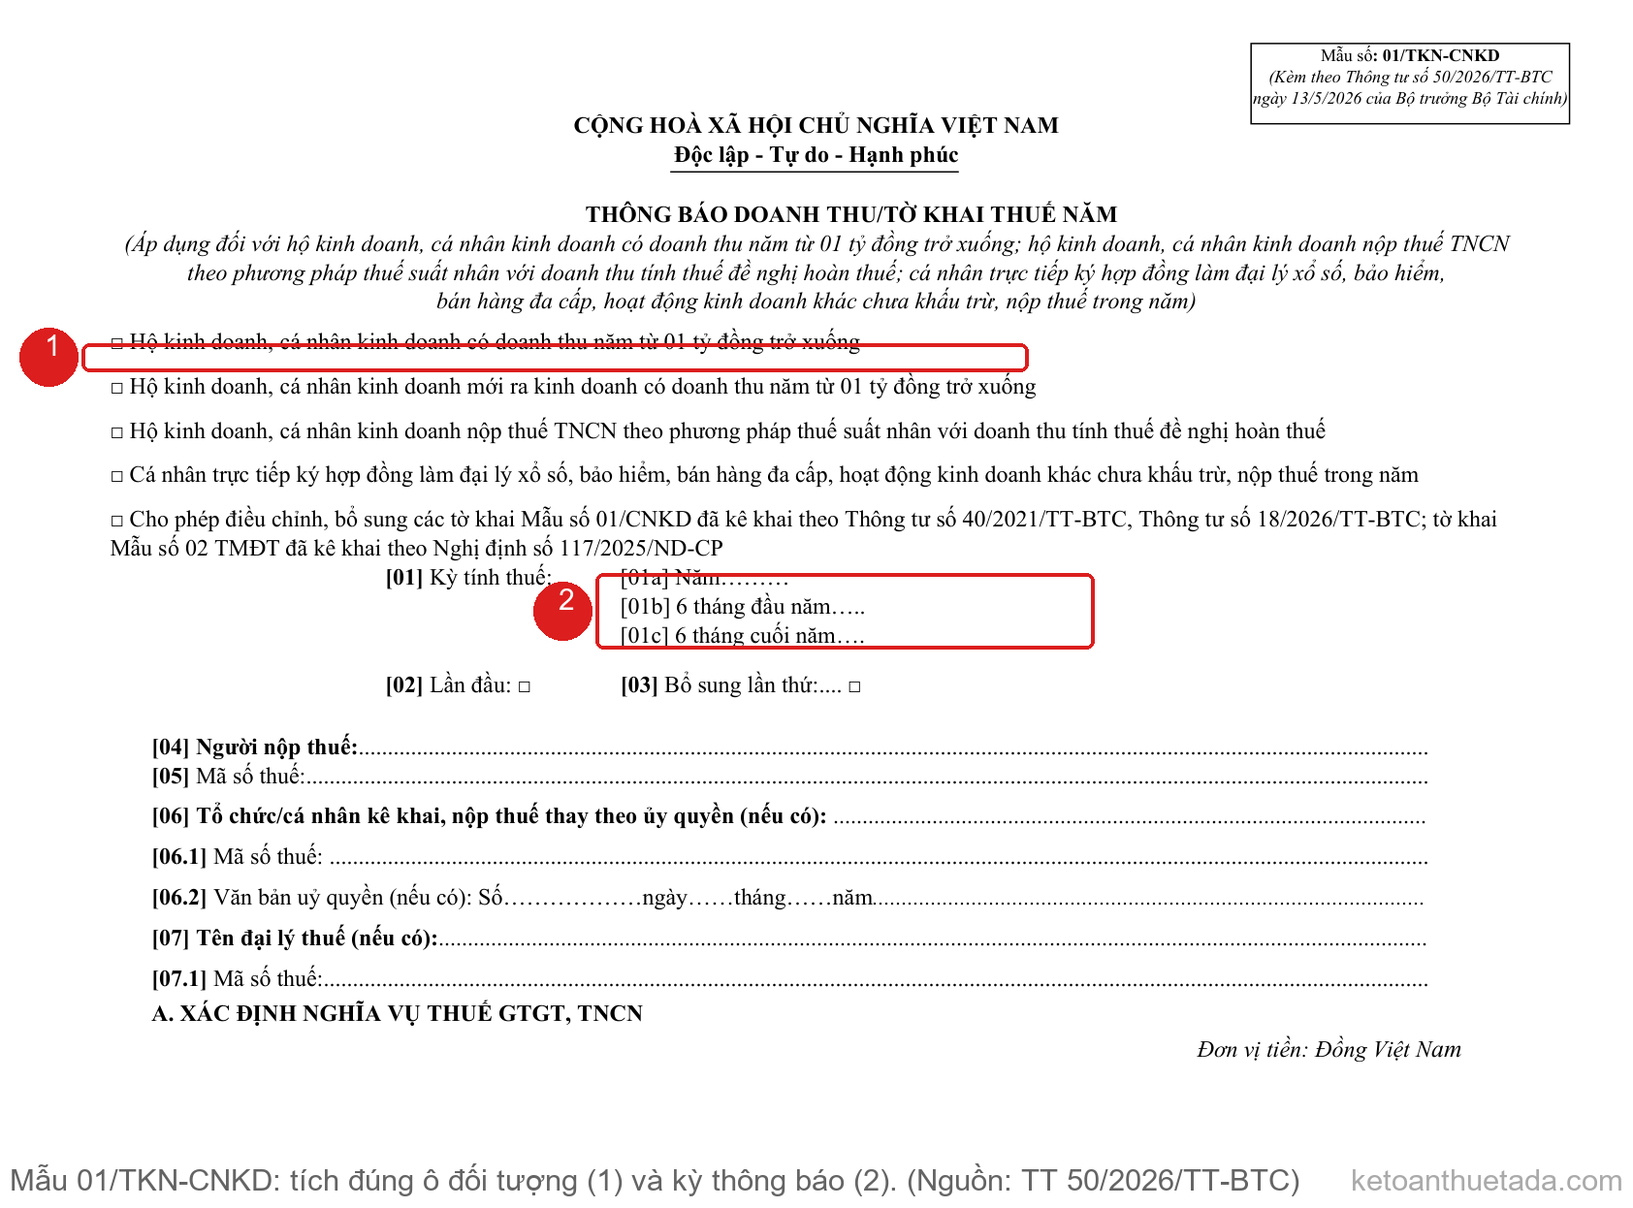
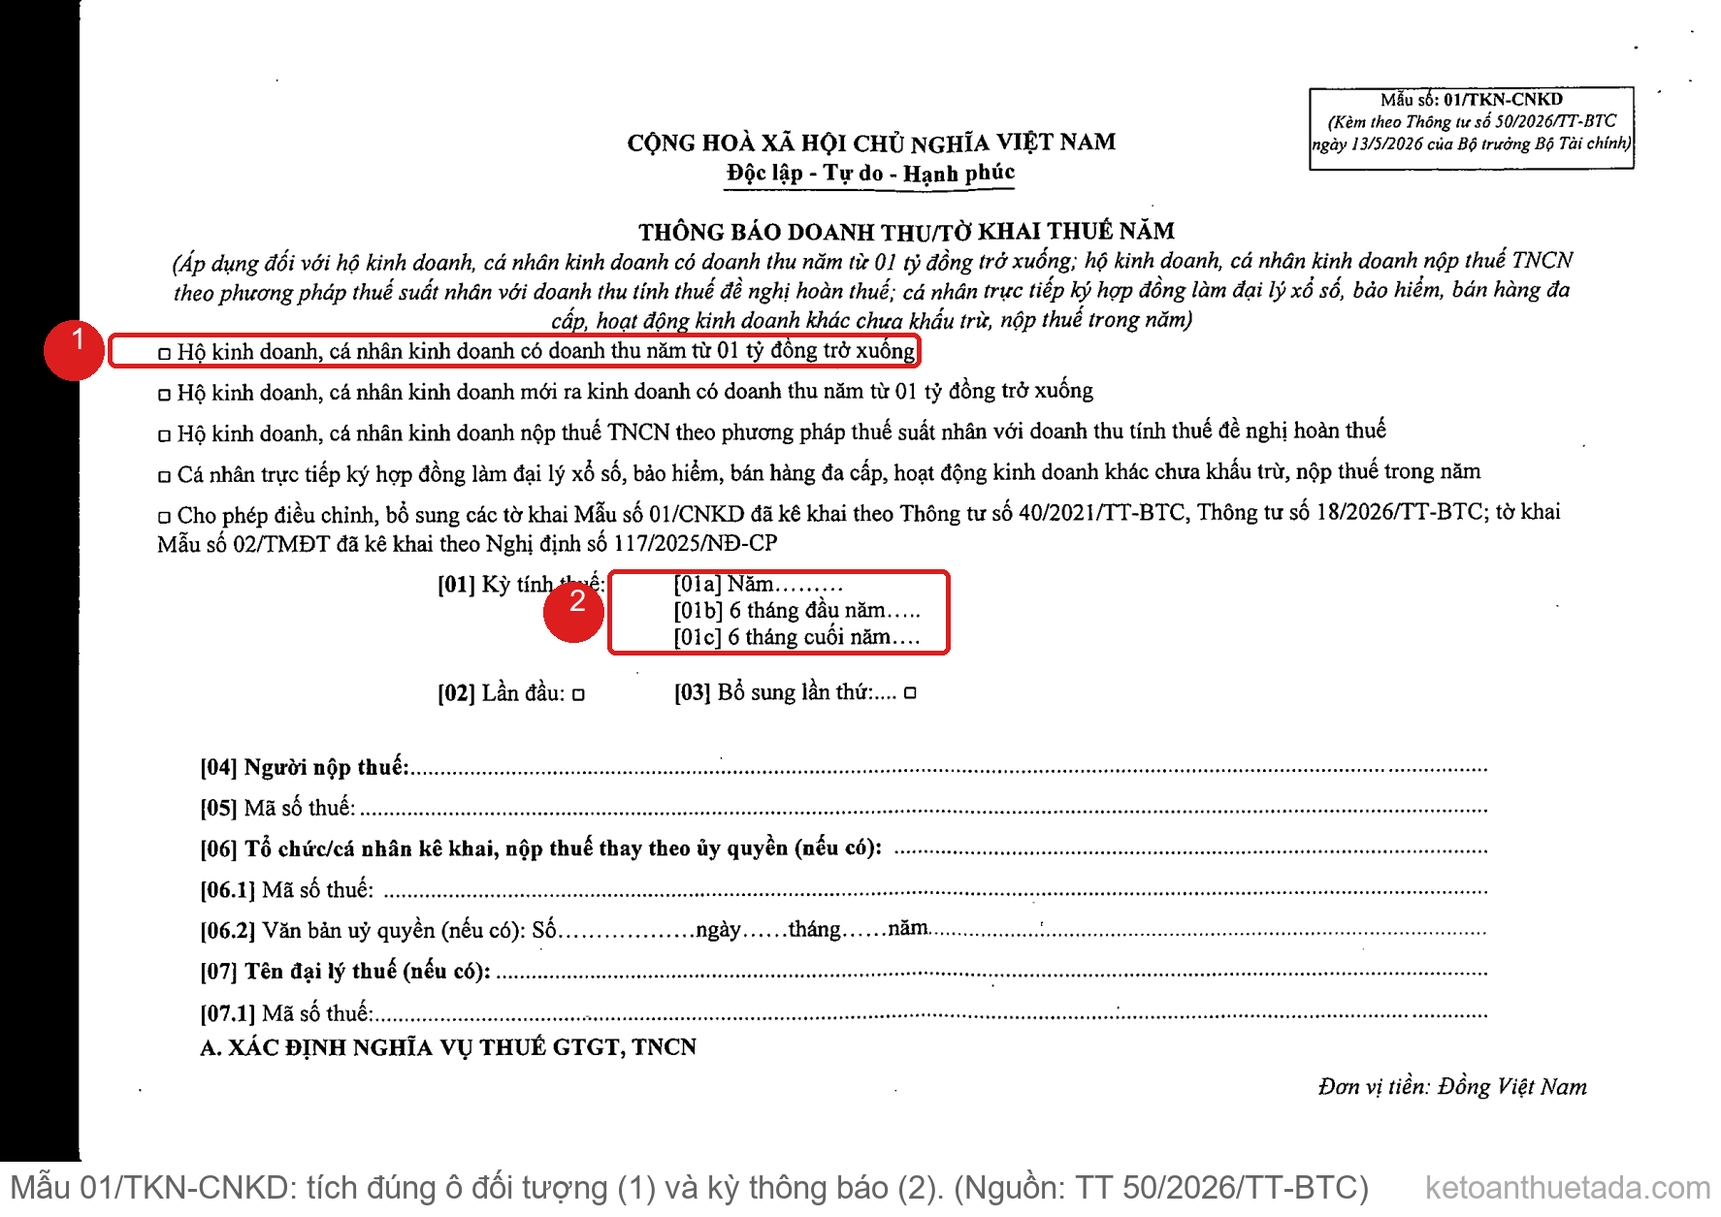
feat(blog): bai ho-kinh-doanh-1-ty-khai-thue-quy-3 + anh bieu mau khoanh lai dung vuong (PDF goc chinh phu) + FB post + quy trinh 3b anh bieu mau

diff --git a/tools/blog-content/cluster1-thue-hkd/ho-kinh-doanh-1-ty-co-phai-khai-thue-quy-3-khong.md b/tools/blog-content/cluster1-thue-hkd/ho-kinh-doanh-1-ty-co-phai-khai-thue-quy-3-khong.md
@@ -1,0 +1,104 @@
+---
+title: "Hộ kinh doanh doanh thu 1 tỷ có phải khai thuế quý 3 không?"
+slug: "ho-kinh-doanh-1-ty-co-phai-khai-thue-quy-3-khong"
+summary: "Hộ doanh thu năm từ 1 tỷ trở xuống không khai thuế theo quý: chỉ nộp Thông báo doanh thu đúng kỳ và hạn riêng. Xem chi tiết cách nộp trên eTax Mobile từng bước"
+published_at: null
+author: "Dịch Vụ Thuế Kế Toán TADA"
+status: "published"
+review_status: "approved"
+tags: ["thue", "ho-kinh-doanh"]
+canonical: "https://ketoanthuetada.com/blog/ho-kinh-doanh-1-ty-co-phai-khai-thue-quy-3-khong"
+---
+
+# Hộ kinh doanh doanh thu 1 tỷ có phải khai thuế quý 3 không?
+
+Sáng thứ Hai 2/11, hàng nghìn hộ kinh doanh chuẩn bị nộp tờ khai quý III/2026 — nhưng trong đó có một nhóm lớn đang chuẩn bị nhầm bài: hộ có doanh thu năm từ 1 tỷ đồng trở xuống. Nhóm này không thuộc diện khai thuế theo quý, không nộp thuế GTGT cũng không nộp thuế TNCN. Việc duy nhất họ làm với cơ quan thuế là Thông báo doanh thu theo Mẫu 01/TKN-CNKD, đúng kỳ và đúng hạn riêng. Nộp nhầm tờ khai quý 3 không phát sinh số tiền thuế, nhưng tốn công và dễ chọn sai mẫu.
+
+## Tại sao hộ doanh thu từ 1 tỷ trở xuống không khai thuế theo quý?
+
+Năm 2026 lấy doanh thu làm ranh giới, không phải tháng nộp, không phải hình thức hộ đăng ký. Theo Nghị định 68/2026/NĐ-CP (Điều 3 khoản 1 về thuế GTGT, Điều 4 khoản 1 về thuế TNCN), doanh thu năm 501 triệu được nâng thành **1 tỷ đồng** bởi Nghị định 141/2026/NĐ-CP (Điều 1 khoản 1): hộ kinh doanh có doanh thu năm từ 1 tỷ trở xuống được **không chịu và không phải kê khai, nộp hai loại thuế này**.
+
+Vai trò của Thông báo doanh thu vì thế là **kê khai để theo dõi doanh thu**, chứ không phải kê khai số thuế phải nộp. Mẫu dùng là 01/TKN-CNKD (Thông tư 18/2026/TT-BTC, Điều 4 khoản 1 điểm a).
+
+Đó cũng là điều livestream Cục Thuế ngày 29/10/2026 nhắc rõ: trên eTax Mobile, hộ nhỏ chọn đối tượng "Hộ, cá nhân kinh doanh" → "Chính thức" → trong mục Khai thuế, chọn **Thông báo doanh thu (doanh thu năm từ 1 tỷ trở xuống)** — không chọn tờ khai GTGT/TNCN theo kỳ.
+
+Hạn 2/11/2026 là hạn của nhóm khai thuế theo quý — không phải của hộ nhỏ; lịch hạn của hộ nhỏ xem bảng dưới.
+
+## Kỳ và hạn thông báo doanh thu cho hộ ≤1 tỷ là mốc nào?
+
+Nghị định 68/2026 tách 3 trường hợp, hạn hoàn toàn khác hạn dời của tờ khai quý:
+
+| Nhóm hộ | Kỳ thông báo | Hạn cuối | Căn cứ |
+|---|---|---|---|
+| Hộ đã hoạt động từ năm trước | Doanh thu cả năm | 31/01/2027 | NĐ 68/2026 Điều 8 khoản 1 điểm a |
+| Hộ mới bắt đầu trong 6 tháng đầu năm | Từ ngày bắt đầu đến hết 30/6 | 31/7/2026 | NĐ 68/2026 Điều 9 khoản 1 |
+| Hộ mới bắt đầu trong 6 tháng cuối năm | Từ ngày bắt đầu đến hết năm | 31/01/2027 | NĐ 68/2026 Điều 9 khoản 1 |
+
+Áp vào năm kinh doanh 2026: hộ đang hoạt động ổn định thông báo doanh thu muộn nhất 31/01/2027. Ngày này rơi vào Chủ nhật, nên theo khoản 5 Điều 148 Bộ luật Dân sự 2015, thời hạn dời sang ngày làm việc kế tiếp là 1/2/2027 (thứ hai) — mốc đã nằm trong lịch thuế tháng 11-12. Hộ mới mở cửa hàng cuối 2026 (ví dụ mở từ 20/10) cũng chỉ nộp một lần, trước 31/01/2027.
+
+<figure class="blog-figure">
+<img src="/static/img/blog/mau-01-tkn-cnkd.png" alt="Mau 01 TKN CNKD thong bao doanh thu ho kinh doanh" loading="lazy" />
+<figcaption>Mẫu 01/TKN-CNKD: tích đúng ô đối tượng (1) — doanh thu năm từ 01 tỷ trở xuống — và tổ hợp kỳ thông báo (2). Biểu kèm Thông tư 50/2026/TT-BTC.</figcaption>
+</figure>
+
+Điểm thứ hai hay bị nhầm ngược lại: khi doanh thu cộng dồn trong năm **vượt 1 tỷ đồng**, hộ **chuyển sang kê khai thuế theo quý kể từ quý vượt mốc** (NĐ 68/2026 Điều 9 khoản 2, Điều 8 khoản 3 điểm a). Hạn nộp hồ sơ quý là ngày cuối cùng của tháng đầu tiên của quý sau. Hộ nào vượt mốc trong quý III thì hạn là 2/11/2026. Nói cách khác, 2/11 là hạn của hộ vừa nhảy ngưỡng, không phải của hộ nhỏ.
+
+## Nộp Thông báo doanh thu trên eTax Mobile như thế nào?
+
+Theo hướng dẫn livestream Cục Thuế ngày 29/10/2026 và hướng dẫn chi tiết trên Cổng dịch vụ công ngành thuế, trình tự như sau:
+
+1. **Đăng nhập eTax Mobile**, chọn đối tượng "Hộ, cá nhân kinh doanh", chọn "Chính thức" để vào phân hệ.
+2. Vào mục Khai thuế, chọn **Thông báo doanh thu**. Hệ thống hiện đúng bộ hồ sơ hộ doanh thu từ 1 tỷ trở xuống, không phải tờ khai GTGT/TNCN theo quý.
+3. **Chọn kỳ và đối tượng kê khai:** người nộp thuế tự kê khai; loại kỳ chọn theo bảng trên — kỳ 6 tháng (hộ mới) hoặc kỳ cả năm (hộ ổn định); chọn đúng cơ quan thuế quản lý trực tiếp.
+4. **Tích loại hoạt động kinh doanh** phát sinh trong kỳ (hộ ghép nhiều ngành thì tích nhiều ngành). Nhập doanh thu từng ngành: chỉ kê doanh thu, không có cột số thuế GTGT, TNCN phải nộp.
+5. Có hoạt động thuộc thuế TTĐB, tài nguyên hoặc phí bảo vệ môi trường thì kê thêm; không có thì bỏ qua.
+6. **Kiểm tra lại toàn bộ**, nhập mã OTP xác thực để nộp, lưu ngay biên nhận nộp thành công.
+
+Điểm dễ gãy nhất nằm ở **phiên bản mẫu**: kỳ tính thuế bắt đầu từ 01/7/2026 trở đi (ví dụ kỳ 6 tháng cuối năm) dùng mẫu 01/TKN-CNKD tại Phụ lục I Thông tư 89/2026/TT-BTC (Điều 99 khoản 5), thay mẫu cùng số hiệu kèm Thông tư 50/2026/TT-BTC; kỳ trước 01/7/2026 dùng mẫu theo TT 50/2026. Ứng dụng gán mẫu theo kỳ, nhưng nộp giấy hoặc tải biểu mẫu từ nguồn ngoài phải kiểm tra phiên bản trước khi gửi.
+
+Lần thông báo đầu tiên của hộ mới bắt đầu kinh doanh gửi kèm **thông báo số tài khoản hoặc số hiệu ví điện tử** theo mẫu 01/BK-STK (Thông tư 18/2026, Điều 4 khoản 1 điểm d) — thiếu giấy này hồ sơ bị trả về làm lại.
+
+## Bẫy nào dễ gặp nhất khi hộ kinh doanh nhỏ kê khai?
+
+Có ba bẫy lặp lại nhiều trong các buổi đối thoại giữa hộ và cơ quan thuế:
+
+- **Chuyển quá sớm hoặc quá muộn khi doanh thu vượt 1 tỷ.** Quy tắc là theo quý \_\_phát sinh\_\_ vượt mốc: doanh thu cộng dồn mới vượt 1 tỷ kể từ quý III nghĩa là hộ chỉ khai theo quý từ quý III; các quý trước đó vẫn thuộc diện thông báo doanh thu, không bị truy lùi.
+- **Đăng ký hóa đơn điện tử trễ khi vượt mốc giữa năm.** Doanh thu lũy kế vượt 1 tỷ thì hộ có **30 ngày** để đăng ký hóa đơn điện tử (NĐ 141/2026, Điều 1 khoản 2 điểm c) — chọn hình thức có mã cơ quan thuế hoặc không có mã theo Nghị định 254/2026/NĐ-CP. Đếm mốc từ ngày phát sinh vượt, đừng đợi sang năm.
+- **Dùng mẫu sai phiên bản theo kỳ** như mục trên, hoặc **quên thông báo số tài khoản** khi lần đầu nộp hồ sơ. Thiếu là bị trả về, mất thêm một vòng 3-5 ngày làm việc.
+
+Bên cạnh đó, hộ nhỏ vẫn cần **sổ tối thiểu**: sổ doanh thu bán hàng hóa, dịch vụ mẫu S1a-HKD theo Điều 4 khoản 1 Thông tư 152/2025/TT-BTC, dành cho nhóm "không chịu GTGT, không phải nộp TNCN". Ghi doanh thu theo ngày để tự biết hộ còn cách ngưỡng bao xa — vượt mốc là phải chuyển ngay, không ai nhắc trước.
+
+Một điểm đáng nắm cuối: hộ đã lỡ kê khai, nộp thuế GTGT/TNCN theo Nghị định 68/2026 trong khi doanh thu năm thực tế từ 1 tỷ trở xuống thì số thuế đã nộp được **xử lý theo Điều 12 Nghị định 68/2026** (NĐ 141/2026 Điều 4 khoản 1) — giữ các tờ khai đã nộp để đối chiếu.
+
+## Câu hỏi thường gặp
+
+**Câu 1: Hạn 2/11/2026 áp dụng cho hộ nào?**
+
+Chỉ áp dụng hộ kinh doanh, cá nhân kinh doanh khai thuế theo quý — nhóm doanh thu năm trên 1 tỷ (nộp GTGT+TNCN); hạn gốc 31/10 rơi thứ Bảy nên dời thành 2/11. Hộ doanh thu năm từ 1 tỷ trở xuống không khai theo quý; mốc gần nhất là 31/01/2027, dời thành 1/2/2027 cho thông báo doanh thu cả năm.
+
+**Câu 2: Hộ doanh thu dưới 1 tỷ nộp gì cho kỳ quý III/2026?**
+
+Không có tờ khai quý nào phải nộp. Chỉ hai tình huống đáng chú ý: hộ ổn định chờ thông báo doanh thu cả năm trước 31/01/2027; hộ mới ra kinh doanh trong 6 tháng đầu năm mà lỡ hạn 31/7/2026 thì nộp sớm và trao đổi với cơ quan thuế để giảm nhẹ chậm nộp.
+
+**Câu 3: Trên eTax Mobile chọn mục nào để nộp Thông báo doanh thu?**
+
+Chọn "Hộ, cá nhân kinh doanh → Chính thức → Khai thuế → Thông báo doanh thu" đúng như livestream Cục Thuế ngày 29/10/2026 hướng dẫn, không chọn Tờ khai GTGT/TNCN theo quý. Hộ nộp lần đầu chuẩn bị sẵn số tài khoản hoặc ví điện tử để kê kèm 01/BK-STK.
+
+**Câu 4: Nếu doanh thu năm vượt 1 tỷ giữa năm thì sao?**
+
+Hộ chuyển sang kê khai thuế theo quý kể từ quý vượt mốc, hạn mỗi quý là ngày cuối cùng của tháng đầu quý sau (Điều 9 khoản 2 Nghị định 68/2026). Đồng thời trong **30 ngày** từ lúc vượt mốc phải đăng ký hóa đơn điện tử theo NĐ 141/2026. Chậm chuyển có thể bị xử phạt theo Nghị định 125/2020/NĐ-CP.
+
+## Xem thêm
+
+- [Khai thuế quý 3 dời hạn 2/11: nộp sớm hay đợi](https://ketoanthuetada.com/blog/khai-thue-quy-3-doi-han-2-11-nop-som-hay-doi) — chi tiết hạn dời cho nhóm khai theo quý.
+- [Hộ kinh doanh dưới 500 triệu có phải nộp thuế không](https://ketoanthuetada.com/blog/1-ho-kinh-doanh-duoi-500-trieu-co-phai-nop-thue-khong) — ngưỡng miễn trước khi NĐ 141/2026 nâng lên.
+- [Cách tính thuế TNCN hộ kinh doanh 2026 — 4 nhóm doanh thu](https://ketoanthuetada.com/blog/3-cach-tinh-thue-tncn-hkd-2026-4-nhom-doanh-thu) — tỷ lệ % trên doanh thu từng nhóm.
+- [BHXH bắt buộc chủ hộ 2026: mức đóng 29,5%, ai phải nộp](https://ketoanthuetada.com/blog/bhxh-bat-buoc-chu-ho-2026) — đối tượng và 2 mốc 01/01/2026 và 01/07/2029.
+- [Lịch nộp thuế hộ kinh doanh 2026 — thời hạn cụ thể](https://ketoanthuetada.com/blog/5-lich-nop-thue-hkd-2026-thoi-han-cu-the) — bảng mốc theo tháng từng kỳ.
+- [Lịch thuế tháng 11–12/2026: 6 mốc cuối năm](https://ketoanthuetada.com/blog/lich-thue-thang-11-12-2026-moc-nao-duoc-lui-tien) — mốc 1/2/2027 dời hạn thông báo doanh thu.
+
+> **Căn cứ pháp lý:** [Nghị định 68/2026/NĐ-CP](https://www.google.com/search?q=ngh+d+68+2026+nd-cp+ho+kinh+doanh); [Nghị định 141/2026/NĐ-CP](https://www.google.com/search?q=ngh+d+141+2026+nd-cp+ho+kinh+doanh); [Thông tư 18/2026/TT-BTC](https://www.google.com/search?q=thong+tu+18+2026+tt-btc+ho+kinh+doanh); [Thông tư 89/2026/TT-BTC](https://www.google.com/search?q=thong+tu+89+2026+tt-btc+mau+01tkn+cnkd); [Thông tư 152/2025/TT-BTC](https://www.google.com/search?q=thong+tu+152+2025+tt-btc+ho+kinh+doanh)
+
+---
+*Bài viết được thực hiện bởi Đội ngũ Chuyên gia Thuế TADA.*
+*Cập nhật: 10/2026 | Nguồn thời sự: livestream Cục Thuế 29/10/2026 về eTax Mobile. Văn bản pháp lý xem mục Căn cứ pháp lý phía trên.*

diff --git a/tools/blog-content/social-posts/ho-kinh-doanh-1-ty-co-phai-khai-thue-quy-3-khong-fb.md b/tools/blog-content/social-posts/ho-kinh-doanh-1-ty-co-phai-khai-thue-quy-3-khong-fb.md
@@ -1,0 +1,25 @@
+Sáng thứ Hai 2/11, rất nhiều chủ hộ kinh doanh chuẩn bị ngồi vào nộp tờ khai quý III/2026. Nhưng giữa nhóm đó có một bộ phận đang làm một việc không cần thiết: hộ có doanh thu năm từ một tỷ đồng trở xuống. Nhóm này theo quy định mới 2026 không phải khai thuế theo quý, không nộp thuế GTGT, cũng không nộp thuế TNCN. Việc duy nhất họ cần làm với cơ quan thuế cả năm chỉ là nộp một tờ khai ngắn gọn đúng tên gọi: Thông báo doanh thu theo Mẫu 01/TKN-CNKD.
+
+Vì sao lại như vậy? Từ ngày 01/01/2026, cách tính thuế cho hộ kinh doanh đổi sang lấy doanh thu làm ranh giới. Nghị định 68/2026/NĐ-CP đăng ký nguyên tắc, rồi Nghị định 141/2026/NĐ-CP nâng ngưỡng miễn lên một tỷ đồng một năm. Tức là nếu cả năm bạn bán được từ một tỷ trở xuống, bạn thuộc nhóm không chịu thuế GTGT và TNCN. Không có thuế phải nộp thì không có tờ khai quý để nộp. Cơ quan thuế chỉ muốn biết một thứ: doanh thu của bạn là bao nhiêu. Tờ đó chính là Thông báo doanh thu.
+
+Điều này vừa được Cục Thuế nói rõ trong livestream hướng dẫn ngày 29/10/2026 về eTax Mobile. Trên ứng dụng, hộ nhỏ chọn mục "Hộ, cá nhân kinh doanh", chọn "Chính thức", vào Khai thuế và chọn "Thông báo doanh thu — doanh thu năm từ 1 tỷ trở xuống". Không chọn tờ khai GTGT hay TNCN theo quý. Màn hình sẽ hiện đúng bộ hồ sơ cho nhóm của bạn, chỉ có cột doanh thu, không có cột số thuế phải nộp.
+
+Vậy hạn là ngày nào? Đấy là chỗ nhiều người nhầm nhất. Nghị định 68/2026 tách ba trường hợp. Một, hộ đã hoạt động từ năm trước: thông báo doanh thu cả năm, chậm nhất 31/01/2027. Ngày này rơi vào Chủ nhật nên dời sang 1/2/2027 theo luật về thời hạn. Hai, hộ mới bắt đầu kinh doanh trong sáu tháng đầu năm: nộp trước 31/7 cùng năm. Ba, hộ mới bắt đầu trong sáu tháng cuối năm: nộp trước 31/01/2027. Không mốc nào rơi vào ngày 2/11/2026.
+
+Ngày 2/11 là hạn của ai? Của nhóm doanh thu trên một tỷ — những hộ đã vượt ngưỡng và phải khai theo quý. Hạn gốc 31/10 rơi vào thứ Bảy nên được dời sang thứ Hai 2/11. Nói cách khác, nếu dạo này bạn thấy khắp nơi đồn hạn quý 3 là 2/11, đó là tin của nhóm trên một tỷ, không phải tin của hộ nhỏ. Nhưng có một tình huống là điểm giao giữa hai nhóm: nếu doanh thu cộng dồn của bạn vượt một tỷ ngay trong quý III, kể từ quý đó bạn chuyển sang khai theo quý, và hạn của quý III chính là 2/11. Đồng thời trong vòng ba mươi ngày từ lúc vượt ngưỡng, bạn phải đăng ký sử dụng hóa đơn điện tử theo Nghị định 141/2026. Vượt mốc mà chờ sang đầu năm mới làm là mất thời gian vô ích.
+
+Trình tự nộp trên eTax Mobile tóm gọn gồm sáu bước: đăng nhập, chọn đối tượng hộ kinh doanh chính thức, vào mục Khai thuế, chọn Thông báo doanh thu, chọn kỳ và tích đúng ngành nghề kinh doanh của kỳ đó, nhập doanh thu từng ngành rồi lấy mã OTP để nộp. Nếu hộ mới bắt đầu và lần đầu nộp, nhớ chuẩn bị sẵn số tài khoản ngân hàng hoặc số hiệu ví điện tử để gửi kèm theo mẫu 01/BK-STK. Thiếu thông tin tài khoản là hồ sơ bị trả về, mất thêm một vòng ba đến năm ngày làm việc.
+
+Một chi tiết mẫu biểu dễ gãy: kỳ tính thuế bắt đầu từ 01/7/2026 trở đi phải dùng mẫu 01/TKN-CNKD ban hành theo Thông tư 89/2026/TT-BTC, còn kỳ trước đó dùng mẫu theo Thông tư 50/2026/TT-BTC. Ứng dụng tự gán đúng mẫu khi bạn chọn kỳ, nhưng nếu bạn nộp giấy hoặc tải biểu mẫu từ nguồn ngoài, kiểm tra kỹ phiên bản trước khi gửi.
+
+Ngoài ra, dù được miễn hai loại thuế chính, hộ nhỏ vẫn cần ghi sổ doanh thu theo mẫu S1a-HKD. Sổ này không làm cho cơ quan thuế xem đẹp mắt, nó giúp chính bạn biết mỗi ngày hộ còn cách ngưỡng một tỷ bao xa. Đến lúc tổng doanh thu cộng dồn chạm ngưỡng, bạn phải chuyển chế độ ngay trong quý, không ai nhắc trước cho bạn cả. Còn nếu lỡ tay đã kê khai và nộp thuế GTGT, TNCN trong khi doanh thu cả năm thực tế dưới một tỷ, đừng lo trắng: số thuế đã nộp được xử lý trả lại theo Điều 12 Nghị định 68/2026, miễn là bạn giữ nguyên hồ sơ đã nộp để đối chiếu.
+
+Vậy tóm lại: hộ dưới một tỷ không phải nộp gì vào ngày 2/11, nhưng giới hạn một tỷ không phải đường vô hình — vượt qua là nghĩa vụ đổi ngay lập tức. Hộ của bạn hiện đang ở bên nào của vạch một tỷ, và bạn đã có sổ theo dõi doanh thu hằng ngày để biết điều đó chưa?
+
+👉 Đọc chi tiết kỳ hạn, bẫy mẫu biểu và từng bước trên eTax Mobile tại: https://ketoanthuetada.com/blog/ho-kinh-doanh-1-ty-co-phai-khai-thue-quy-3-khong
+
+#thue #hokinhdoanh #etaxmobile #thuequy3 #thongbaodoanhthu
+
+---COMMENT---
+
+(Bình luận đầu tiên) Văn bản căn cứ trong bài: Nghị định 68/2026/NĐ-CP (Điều 3, 4, 8, 9, 12), Nghị định 141/2026/NĐ-CP (Điều 1), Thông tư 18/2026/TT-BTC (Điều 4), Thông tư 89/2026/TT-BTC (Phụ lục I), Thông tư 152/2025/TT-BTC (sổ S1a-HKD). Bạn nào đang lưỡng lự nhóm của mình thì nhập doanh thu năm ước tính vào đây, mình xem giúp.

diff --git a/tools/blog-content/_CHUAN-BAI-BLOG-TADA.md b/tools/blog-content/_CHUAN-BAI-BLOG-TADA.md
@@ -32,6 +32,11 @@ Kiểm tra tự động trước khi publish: `python tools/check-post-format.py
 ## 3. Link nội bộ
 - ≥ 2 trong thân bài + `## Xem thêm`= 5 mục trong DB (verified bằng REST trước khi patch). Slug tuyệt đối `https://ketoanthuetada.com/blog/<slug>`.
 
+## 3b. Ảnh biểu mẫu (bắt buộc khi bài nói về biểu mẫu/tờ khai)
+- Bài nhắc mẫu tờ khai (01/TKN-CNKD, 01/CNKD, 02/QTT...) → chèn ảnh biểu mẫu vào thân bài bằng `<figure class="blog-figure">` với `src="/static/img/blog/<ten>.png"` + `figcaption` (nội dung khoanh + nguồn văn bản).
+- Ảnh có sẵn trong `img/blog/` dùng ngay; chưa có thì tạo bằng `tools/form-image.py` (`--pdf` tìm trang theo cụm từ, render 2x, khoanh đỏ theo tọa độ; fallback `--img`) — và FB dùng luôn ảnh biểu mẫu đó (không Pexels).
+- Sau publish: live verify ảnh HTTP 200 + `blog-figure` xuất hiện trong HTML (dùng `?cb=` nếu CDN cache 60s).
+
 ## 4. Publish (tự động sau khi user duyệt content)
 1. Scan ký tự lạ (script; 0 FFFD/CJK/garbage) + `check-post-format.py` PASS.
 2. INSERT blog_posts: published_at = ISO UTC timestamptz (KHÔNG date-only), status "published".
